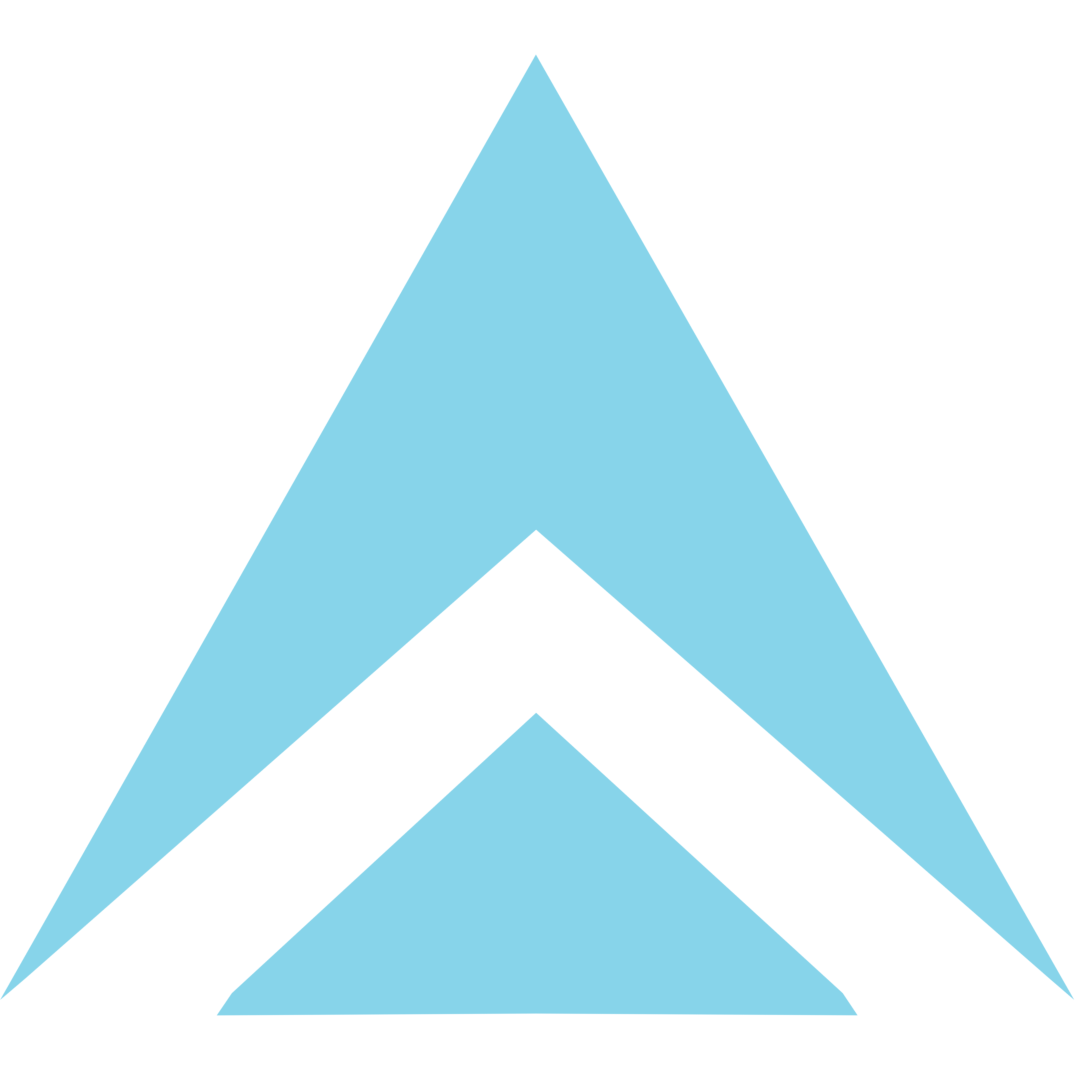
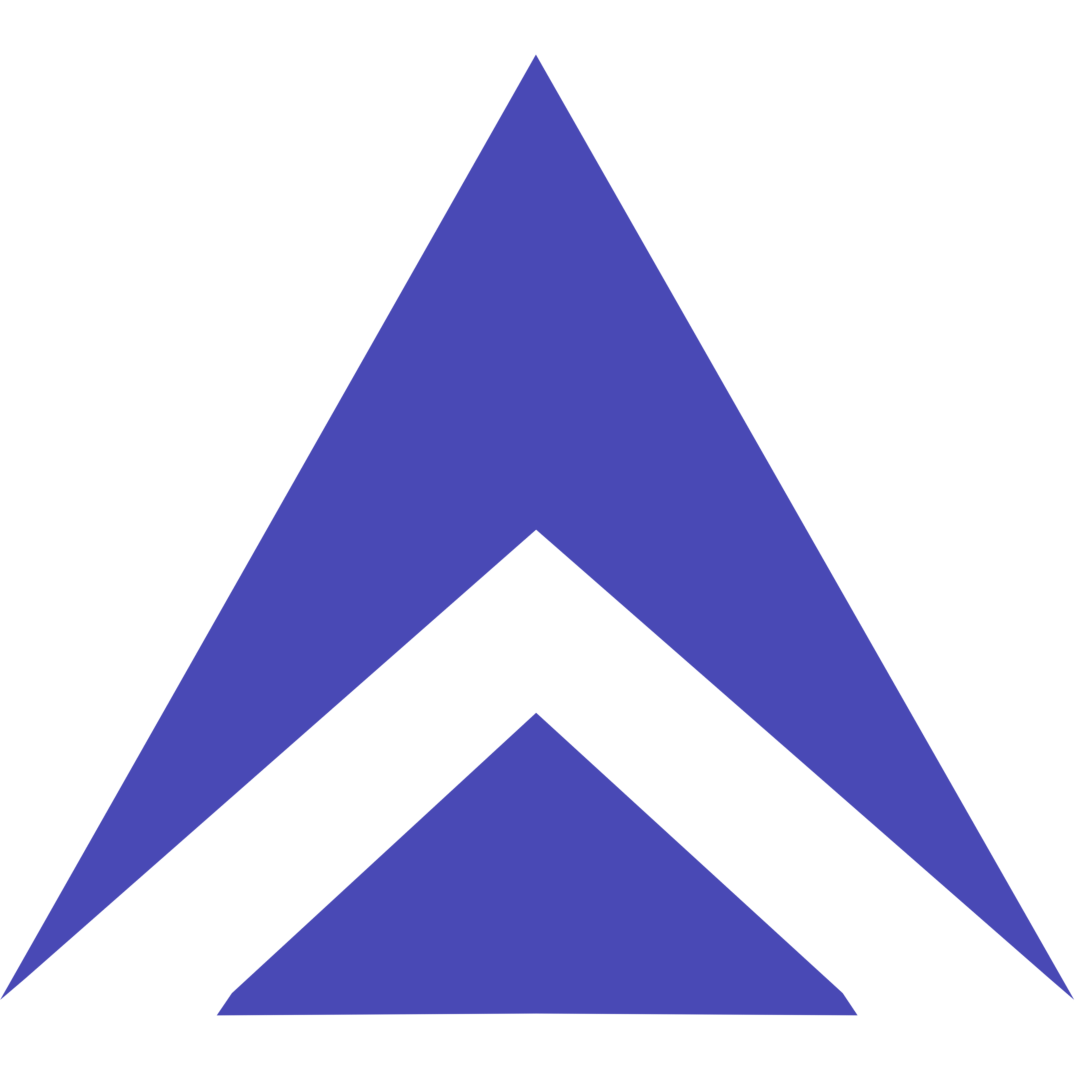
NEW

diff --git a/APTYRIX/index.html b/APTYRIX/index.html
@@ -14,7 +14,7 @@
 <body>
 	<div class="navbar">
 		<div class="list" style="float: left; font-weight: 500;">
-			<img src='0120.png' height="30px">PTYRIX
+			<img src='0121.png' height="30px">PTYRIX
 		</div>
 	<a href="#player">
 		<div class="list">
